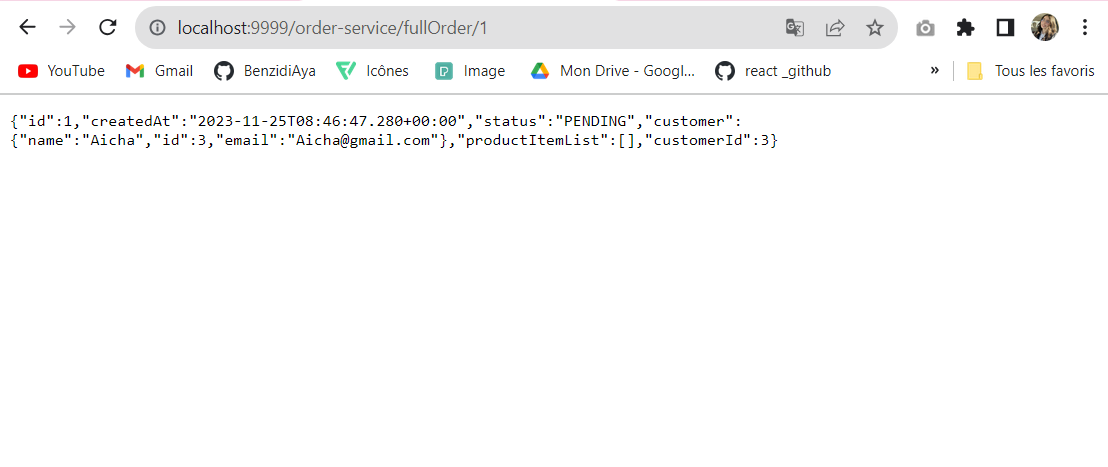
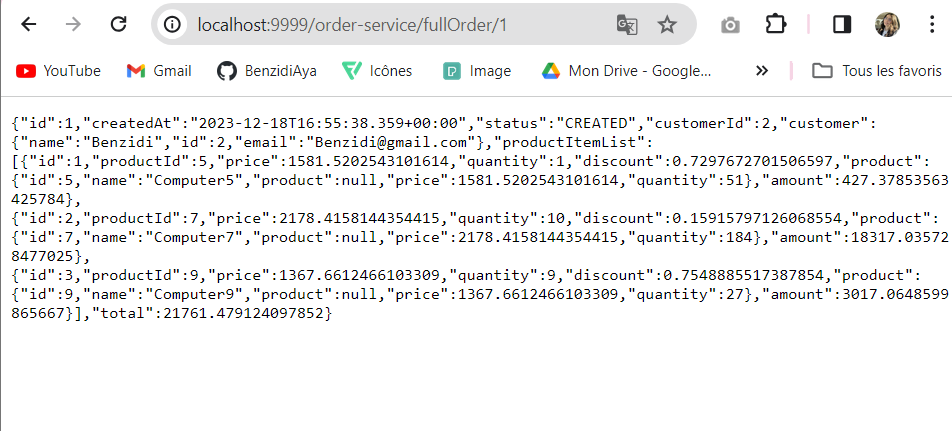
My Second Commit

Changed region(s): [[0.0, 0.0, 1.0, 0.7541], [0.0, 0.0, 0.0305, 0.0905]]

diff --git a/billing/src/main/java/org/sid/billing/ConsulConfigRestController.java b/billing/src/main/java/org/sid/billing/ConsulConfigRestController.java
@@ -1,28 +1,28 @@
 package org.sid.billing;
 
-import org.springframework.beans.factory.annotation.Autowired;
+/*import org.springframework.beans.factory.annotation.Autowired;
 import org.springframework.beans.factory.annotation.Value;
 import org.springframework.cloud.context.config.annotation.RefreshScope;
 import org.springframework.web.bind.annotation.GetMapping;
-import org.springframework.web.bind.annotation.RestController;
+import org.springframework.web.bind.annotation.RestController;*/
 
 import java.util.Map;
 
-@RestController
+//@RestController
 //@RefreshScope
 public class ConsulConfigRestController {
-    @Autowired
+    /*@Autowired
     private MyConsulConfig myConsulConfig;
     @Autowired
-    private MyVaultConfig myVaultConfig;
+    private MyVaultConfig myVaultConfig;*/
 
     /* @Value("${token.accessTokenTimeout}")
      private long accessTokenTimeout;
      @Value("${token.refreshTokenTimeout}")
      private long refreshTokenTimeout;*/
-    @GetMapping("/myConfig")
+    /*@GetMapping("/myConfig")
     public Map<String,Object> myconfig() {
         return Map.of("consulConfig",myConsulConfig,"vaultConfig",myVaultConfig);
-    }
+    }*/
 
 }

diff --git a/billing/src/main/java/org/sid/billing/BillingApplication.java b/billing/src/main/java/org/sid/billing/BillingApplication.java
@@ -1,25 +1,25 @@
 package org.sid.billing;
 
-import org.springframework.boot.CommandLineRunner;
+//import org.springframework.boot.CommandLineRunner;
 import org.springframework.boot.SpringApplication;
 import org.springframework.boot.autoconfigure.SpringBootApplication;
-import org.springframework.context.annotation.Bean;
-import org.springframework.vault.core.VaultTemplate;
+//import org.springframework.context.annotation.Bean;
+//import org.springframework.vault.core.VaultTemplate;
 
 import java.util.Map;
 
 @SpringBootApplication
 public class BillingApplication {
-    private VaultTemplate vaultTemplate;
+    //private VaultTemplate vaultTemplate;
 
     public static void main(String[] args) {
         SpringApplication.run(BillingApplication.class, args);
     }
-    @Bean
+   /* @Bean
     CommandLineRunner commandLineRunner(){
         return args -> {
             vaultTemplate.opsForVersionedKeyValue("secret")
                     .put("keypair", Map.of("privKey","1548","pubKey","45127"));
         };
-    }
+    }*/
 }

diff --git a/order-service/src/main/java/org/sid/orderservice/repo/OrderRepository.java b/order-service/src/main/java/org/sid/orderservice/repo/OrderRepository.java
@@ -1,10 +1,16 @@
 package org.sid.orderservice.repo;
 
-import org.sid.orderservice.entities.ProductItem;
 import org.sid.orderservice.entities.order;
 import org.springframework.data.jpa.repository.JpaRepository;
+import org.springframework.data.repository.query.Param;
 import org.springframework.data.rest.core.annotation.RepositoryRestResource;
+import org.springframework.data.rest.core.annotation.RestResource;
+
+import java.util.List;
 
 @RepositoryRestResource
 public interface OrderRepository extends JpaRepository<order,Long> {
+    @RestResource(path="/byCustomerId")
+    List<order> findByCustomerId(@Param("customerId") Long customerId);
+
 }

diff --git a/order-service/src/main/java/org/sid/orderservice/OrderServiceApplication.java b/order-service/src/main/java/org/sid/orderservice/OrderServiceApplication.java
@@ -39,7 +39,7 @@ public class OrderServiceApplication {
 			Random random=new Random();
 			for (int i=0 ; i <20 ;i++){
 				order ordr=order.builder()
-						.CustomerId(customers.get(random.nextInt(customers.size())).getId())
+						.customerId(customers.get(random.nextInt(customers.size())).getId())
 						.status(Math.random()>0.5? OrderStatus.PENDING:OrderStatus.CREATED)
 						.createdAt(new Date())
 						.build();
@@ -53,6 +53,7 @@ public class OrderServiceApplication {
 								.quantity(1 + random.nextInt(10))
 								.discount(Math.random())
 								.build();
+						productItemRepository.save(productItem);
 					}
 				}
 			}

diff --git a/order-service/src/main/java/org/sid/orderservice/web/OrderRestController.java b/order-service/src/main/java/org/sid/orderservice/web/OrderRestController.java
@@ -30,9 +30,9 @@ public class OrderRestController {
         order ordr=orderRepository.findById(id).get();
     Customer customer=customerRestClientService.customerById(ordr.getCustomerId());
     ordr.setCustomer(customer);
-        ordr.getProductItemList().forEach(p->{
-            Product product=productRestClientService.productById(p.getProductId());
-            p.setProduct(product);
+        ordr.getProductItemList().forEach(pi->{
+            Product product=productRestClientService.productById(pi.getProductId());
+            pi.setProduct(product);
         });
         return ordr;
     }

diff --git a/order-service/src/main/java/org/sid/orderservice/entities/order.java b/order-service/src/main/java/org/sid/orderservice/entities/order.java
@@ -23,9 +23,17 @@ public class order {
     private  Long id;
     private Date createdAt;
     private OrderStatus status;
-    private Long CustomerId;
+    private Long customerId;
     @Transient
     private Customer customer;
     @OneToMany(mappedBy = "order")
     private  List<ProductItem> productItemList;
+    public double getTotal(){
+        double somme=0;
+        for(ProductItem pi:productItemList){
+            somme+=pi.getAmount();
+        }
+        return somme;
+    }
+
 }

diff --git a/billing/src/main/java/org/sid/billing/MyConsulConfig.java b/billing/src/main/java/org/sid/billing/MyConsulConfig.java
@@ -1,12 +1,12 @@
 package org.sid.billing;
 
-import lombok.Data;
+/*import lombok.Data;
 import org.springframework.boot.context.properties.ConfigurationProperties;
 import org.springframework.stereotype.Component;
 
-@Component
-@ConfigurationProperties(prefix="token")
-@Data
+//@Component
+//@ConfigurationProperties(prefix="token")
+@Data*/
 public class MyConsulConfig {
     private long accessTokenTimeout;
     private long refreshTokenTimeout;

diff --git a/order-service/src/main/java/org/sid/orderservice/services/ProductRestClientService.java b/order-service/src/main/java/org/sid/orderservice/services/ProductRestClientService.java
@@ -7,7 +7,7 @@ import org.springframework.web.bind.annotation.PathVariable;
 
 @FeignClient(name ="inventory-service")
 public interface ProductRestClientService {
-    @GetMapping("/product/{id}?projection=fullProduct")
+    @GetMapping("/products/{id}?projection=fullProduct")
     public Product productById(@PathVariable Long id);
     @GetMapping("/products?projection=fullProduct")
     public PagedModel<Product> allproducts();

diff --git a/billing/src/main/java/org/sid/billing/MyVaultConfig.java b/billing/src/main/java/org/sid/billing/MyVaultConfig.java
@@ -1,12 +1,12 @@
 package org.sid.billing;
 
-import lombok.Data;
+/*import lombok.Data;
 import org.springframework.boot.context.properties.ConfigurationProperties;
 import org.springframework.stereotype.Component;
 
-@Component
-@ConfigurationProperties(prefix="user")
-@Data
+//@Component
+//@ConfigurationProperties(prefix="user")
+@Data*/
 public class MyVaultConfig {
     private String username;
     private String password;

diff --git a/order-service/src/main/java/org/sid/orderservice/entities/OrderProjection.java b/order-service/src/main/java/org/sid/orderservice/entities/OrderProjection.java
@@ -1,0 +1,15 @@
+package org.sid.orderservice.entities;
+
+import org.sid.orderservice.enums.OrderStatus;
+import org.springframework.data.rest.core.config.Projection;
+
+import java.util.Date;
+
+@Projection(name="fullOrder",types = order.class)
+public interface OrderProjection {
+        Long getId();
+        Date getCreatedAt();
+        Long getCustomerId();
+        OrderStatus getStatus();
+
+}

diff --git a/order-service/src/main/java/org/sid/orderservice/entities/ProductItem.java b/order-service/src/main/java/org/sid/orderservice/entities/ProductItem.java
@@ -26,4 +26,7 @@ public class ProductItem {
     private order order;
     @Transient
     private Product product;
+    public double getAmount(){
+        return price*quantity*(1-discount);
+    }
 }

diff --git a/README.md b/README.md
@@ -45,7 +45,14 @@
 <h4>7.Consul and Vault Configurations</h4>
 <img src="images/ConsulVaultConfig.png">
 <h4>Frontend Web with Angular:</h4>
-
+<h5>Product List</h5>
+<img src="images/frontend-Product.png">
+<h5>Customers</h5>
+<img src="images/frontend-Customer.png">
+<h5>Customer Orders : Customer 1</h5>
+<img src="images/frontend-OrdersCutomer1.png">
+<h5>Order Details of Customer 1</h5>
+<img src="images/frontend-OrderDetails.png">
 
 
 
